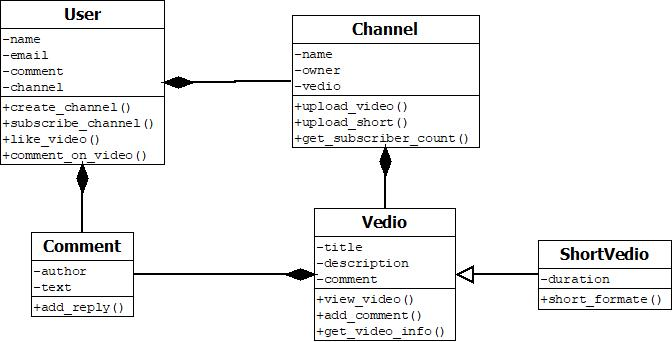
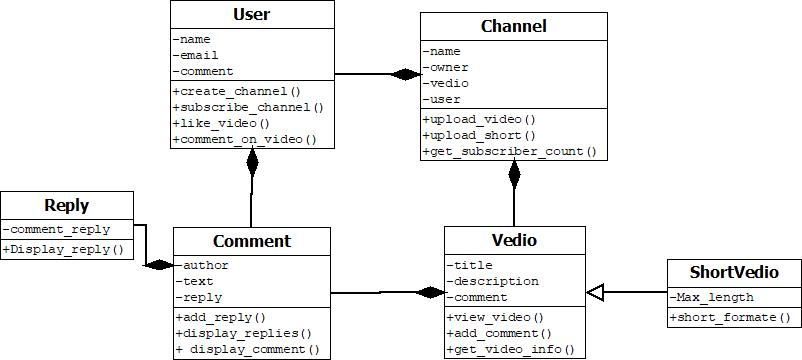
changes updated

diff --git a/main.py b/main.py
@@ -1,33 +1,50 @@
-from user import User
+from user import User  # Import the User class from user.py
 
 
 def main():
-    # Create a User
-    user1 = User("Ali", "ali@gmail.com")
+    # Step 1: Create a User
+    print("Creating a new user...")
+    user1 = User("Ali Nawab Haider", "haider@gmail.com")
+    print(f"User '{user1.name}' created with email: {user1.email}\n")
 
-    # Create a Channel
-    channel1 = user1.create_channel("cartoon Reviews")
+    # Step 2: User creates a channel
+    print("User is creating a channel...")
+    channel1 = user1.create_channel("Tech Reviews")
+    print(f"Channel '{channel1.name}' created by {channel1.owner.name}\n")
 
-    # Upload a video
-    video1 = channel1.upload_video("Latest Review", "In-depth review ")
+    # Step 3: Upload a regular video to the channel
+    print("Uploading a regular video to the channel...")
+    video1 = channel1.upload_video(
+        "Latest Smartphone Review",
+        "In-depth review of the latest smartphone.",
+    )
+    print(f"Video '{video1.title}' uploaded to channel '{channel1.name}'\n")
 
-    # User likes the video
+    # Step 4: User likes the video
+    print("User likes the video...")
     user1.like_video(video1)
+    print(f"Video '{video1.title}' now has {video1.likes} like(s)\n")
 
-    # User comments on the video
-    user1.comment_on_video(video1, "Great review!")
+    # Step 5: User comments on the video
+    print("User comments on the video...")
+    comment1 = user1.comment_on_video(video1, "Great review! Very informative.")
+    print(f"Comment '{comment1.text}' added by {comment1.author.name}\n")
 
-    # View video info
-    print(video1.get_video_info())
-
-    # Upload a short video
+    # Step 6: Upload a short video
+    print("Uploading a short video to the channel...")
     short_video1 = channel1.upload_short(
-        "Quick Smartphone Review", "A short review of short."
+        "Quick Smartphone Overview",
+        "A quick overview of the new smartphone.",
     )
 
-    # View short video info with correct method name
-
+    # Step 7: Display video information
+    print("Displaying information of the uploaded videos...")
+    print(video1.get_video_info())
     print(short_video1.get_video_info())
+
+    # Step 8: Display channel information
+    print("\nDisplaying channel information...")
+    print(channel1.display_channel_info())
 
 
 if __name__ == "__main__":

diff --git a/user.py b/user.py
@@ -6,31 +6,26 @@ class User:
     def __init__(self, name, email):
         self.name = name
         self.email = email
-        self.comment = []  # Composition: User owns comments
-        self.channel = []  # Composition: User owns Channels
+        self.comments = []
+        self.channels = []
 
     def create_channel(self, channel_name):
-        channel = Channel(
-            channel_name, self
-        )  # Create a Channel with this User as owner
-        self.channel.append(channel)
+        channel = Channel(channel_name, self)
+        self.channels.append(channel)
         return channel
 
     def subscribe_channel(self, channel):
-        if channel not in self.subscribed_channels:
-            self.subscribed_channels.append(channel)
+        if channel not in self.channels:
             channel.subscribers.append(self)
-            print("Subscription added successfully")
+            return f"{self.name} subscribed to {channel.name}"
         else:
-            print("Already subscribed")
+            return "Already subscribed"
 
     def like_video(self, video):
-        video.likes += 1
-        print("Like added")
+        video.add_like()
+        return "Like added!"
 
     def comment_on_video(self, video, text):
-        comment = Comment(
-            text, self
-        )  # Create Comment with this User as author
+        comment = Comment(text, self)
         video.add_comment(comment)
-        print("Comment added")
+        return comment

diff --git a/channel.py b/channel.py
@@ -1,24 +1,26 @@
 from video import Video
-from shortvedio import ShortVideo
+from shortvideo import ShortVideo
 
 
 class Channel:
-    def __init__(self, name, owner):
+    def __init__(self, name, user):
         self.name = name
-        self.owner = owner
-        self.vedio = []
+        self.owner = user
+        self.videos = []
+        self.subscribers = []
 
     def upload_video(self, title, description):
-        video = Video(title, description)  # Create a Video object
-        self.vedio.append(video)
+        video = Video(title, description)
+        self.videos.append(video)
         return video
 
     def upload_short(self, title, description):
-        short_video = ShortVideo(
-            title, description
-        )  # Create a ShortVideo object
-        self.vedio.append(short_video)
+        short_video = ShortVideo(title, description)
+        self.videos.append(short_video)
         return short_video
 
     def get_subscriber_count(self):
         return len(self.subscribers)
+
+    def display_channel_info(self):
+        return f"Channel: {self.name}, Owner: {self.owner.name}, Videos: {len(self.videos)}, Subscribers: {len(self.subscribers)}"

diff --git a/video.py b/video.py
@@ -3,15 +3,16 @@ class Video:
         self.title = title
         self.description = description
         self.likes = 0
-        self.comment = []
+        self.comments = []  # A video has many comments
 
     def view_video(self):
-        print(
-            f"Watching: {self.title}\nDescription: {self.description}"
-        )
+        print(f"Watching: {self.title}\nDescription: {self.description}")
 
     def add_comment(self, comment):
-        self.comment.append(comment)
+        self.comments.append(comment)
+
+    def add_like(self):
+        self.likes += 1
 
     def get_video_info(self):
-        return f"Title: {self.title}, Description: {self.description}, Likes: {self.likes}, Comments: {len(self.comment)}"
+        return f"Title: {self.title}, Description: {self.description}, Likes: {self.likes}, Comments: {len(self.comments)}"

diff --git a/comment.py b/comment.py
@@ -1,12 +1,19 @@
+from reply import Reply
+
+
 class Comment:
     def __init__(self, text, author):
         self.text = text
         self.author = author
-        self.replies = []
+        self.replies = []  # A comment has many replies
 
     def add_reply(self, reply_text, user):
-        if len(self.replies) == 0:  # Only allow one reply
-            reply = Comment(reply_text, user)
-            self.replies.append(reply)
-        else:
-            print("A comment cannot have more than one reply.")
+        reply = Reply(reply_text, user)
+        self.replies.append(reply)
+
+    def display_comment(self):
+        return f"{self.author.name}: {self.text}"
+
+    def display_replies(self):
+        for reply in self.replies:
+            print(reply.display_reply())

diff --git a/shortvideo.py b/shortvideo.py
@@ -4,7 +4,7 @@ from video import Video
 class ShortVideo(Video):
     def __init__(self, title, description):
         super().__init__(title, description)
-        self.duration = 60  # Max duration
+        self.max_length = 60  # Max length in seconds
 
     def short_format(self):
-        return f"{self.title} is in short format with {self.duration} seconds duration."
+        return f"{self.title} (Short video, Max length: {self.max_length} seconds)"

diff --git a/reply.py b/reply.py
@@ -1,0 +1,6 @@
+class Reply:
+    def __init__(self, comment_reply):
+        self.text = comment_reply
+
+    def display_reply(self):
+        return f"Replies {self.comment_reply}"
